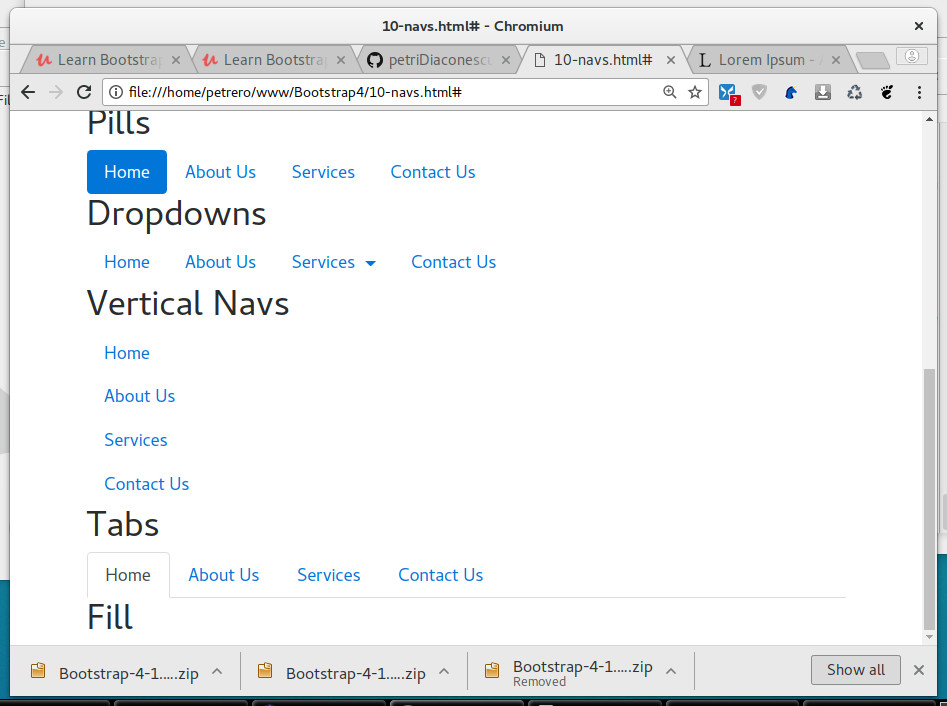
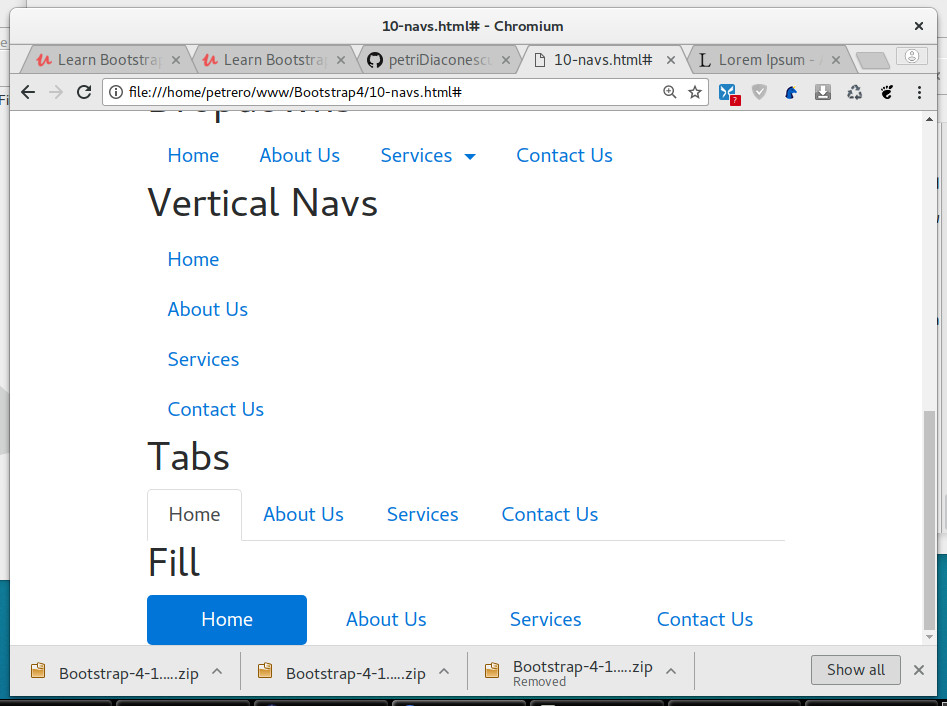
Fill navigations menu

diff --git a/10-navs.html b/10-navs.html
@@ -133,7 +133,22 @@
 
 
          <h2>Fill </h2>
-
+         <nav>
+           <ul class="nav nav-pills nav-justified nav-fill">
+             <li class="nav-item">
+                 <a class="nav-link active" href="#">Home</a>
+             </li>
+             <li class="nav-item">
+                 <a class="nav-link" href="#">About Us</a>
+             </li>
+             <li class="nav-item">
+                 <a class="nav-link" href="#">Services</a>
+             </li>
+             <li class="nav-item">
+                 <a class="nav-link" href="#">Contact Us</a>
+             </li>
+           </ul>
+         </nav>
 
        </div>
      </div>
